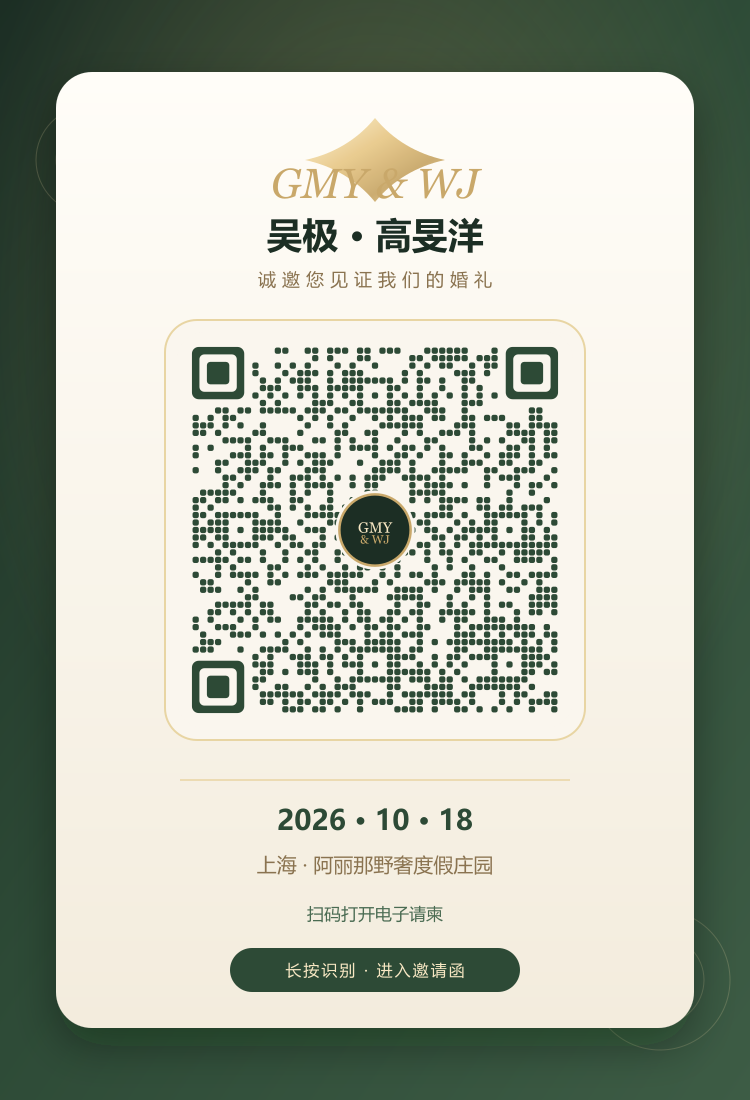
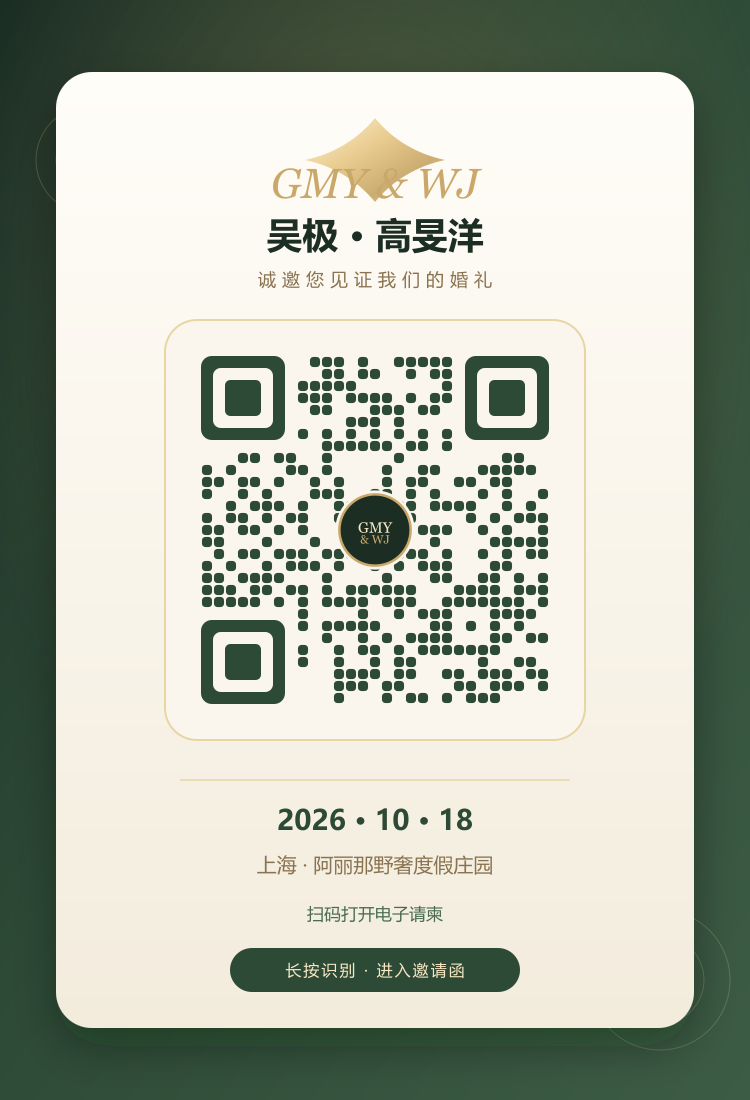
update

Changed region(s): [[0.2453, 0.3091, 0.7667, 0.6491]]

diff --git a/index.html b/index.html
@@ -11,19 +11,22 @@
     页面内用 JS 改写分享卡需公众号 appId + wx.config，本项目未接入。
   -->
   <meta property="og:type" content="website">
-  <meta property="og:url" content="https://wedding-invite-d9gdvtmrr73ff6b75-1461874135.ap-shanghai.app.tcloudbase.com">
+  <meta property="og:site_name" content="GMY &amp; WJ">
+  <meta property="og:url" content="https://wjgmywedding.cn/">
   <meta property="og:title" content="GMY &amp; WJ · 我们结婚啦">
   <meta property="og:description" content="吴极 &amp; 高旻洋 婚礼邀请 · 2026.10.18 · 上海阿丽那野奢度假庄园">
-  <meta property="og:image" content="https://wedding-invite-d9gdvtmrr73ff6b75-1461874135.ap-shanghai.app.tcloudbase.com/share/og-cover.png">
-  <meta property="og:image:width" content="800">
-  <meta property="og:image:height" content="800">
+  <meta property="og:image" content="https://wjgmywedding.cn/share/og-cover.jpg">
+  <meta property="og:image:type" content="image/jpeg">
+  <meta property="og:image:width" content="500">
+  <meta property="og:image:height" content="500">
   <meta name="twitter:card" content="summary_large_image">
   <meta name="twitter:title" content="GMY &amp; WJ · 我们结婚啦">
   <meta name="twitter:description" content="吴极 &amp; 高旻洋 婚礼邀请 · 2026.10.18 · 上海阿丽那野奢度假庄园">
-  <meta name="twitter:image" content="https://wedding-invite-d9gdvtmrr73ff6b75-1461874135.ap-shanghai.app.tcloudbase.com/share/og-cover.png">
+  <meta name="twitter:image" content="https://wjgmywedding.cn/share/og-cover.jpg">
   <meta itemprop="name" content="GMY &amp; WJ · 我们结婚啦">
   <meta itemprop="description" content="吴极 &amp; 高旻洋 婚礼邀请 · 2026.10.18 · 上海阿丽那野奢度假庄园">
-  <meta itemprop="image" content="https://wedding-invite-d9gdvtmrr73ff6b75-1461874135.ap-shanghai.app.tcloudbase.com/share/og-cover.png">
+  <meta itemprop="image" content="https://wjgmywedding.cn/share/og-cover.jpg">
+  <link rel="image_src" href="https://wjgmywedding.cn/share/og-cover.jpg">
   <link rel="preconnect" href="https://fonts.googleapis.com">
   <link rel="preconnect" href="https://fonts.gstatic.com" crossorigin>
   <link rel="preconnect" href="https://cdn.jsdelivr.net" crossorigin>
@@ -32,6 +35,14 @@
   <link href="https://cdn.jsdelivr.net/npm/lxgw-wenkai-webfont@1.7.0/lxgwwenkai-regular.css" rel="stylesheet">
 </head>
 <body>
+  <!-- 微信爬虫会取页面里的首图；勿用 display:none，否则抓不到 -->
+  <img
+    src="https://wjgmywedding.cn/share/og-cover.jpg"
+    alt="GMY &amp; WJ · 我们结婚啦"
+    width="500"
+    height="500"
+    style="position:absolute;left:-9999px;width:500px;height:500px"
+  >
   <div id="app"></div>
   <script type="module" src="/src/main.ts"></script>
 </body>

diff --git a/src/config/wedding.ts b/src/config/wedding.ts
@@ -76,7 +76,6 @@ export const weddingConfig: WeddingConfig = {
     groom: '/imgs/portrait/groom.jpg',
     bride: '/imgs/portrait/bride.jpg',
     formal: '/imgs/portrait/couple-formal.jpg',
-    art: '/imgs/portrait/couple-art.jpg',
     finale: '/imgs/portrait/couple-finale.jpg',
   },
 
@@ -85,12 +84,6 @@ export const weddingConfig: WeddingConfig = {
       en: 'Till here, and for beyond',
       cn: '相逢此时，漫漫与共',
       sub: '在这场奇妙漫长的人生盛典，我获颁与你并肩的一生。',
-    },
-    art: {
-      en: 'Quiet Moments',
-      cn: '静好时光',
-      sub: '依偎之间，是我们最自在的模样',
-      caption: '白色影棚 · 依偎静好',
     },
   },
 
@@ -184,11 +177,11 @@ export const weddingConfig: WeddingConfig = {
    * 页面已打开后由 JS 定制分享卡需公众号 JS-SDK，本项目未接入。
    */
   share: {
-    url: 'https://wedding-invite-d9gdvtmrr73ff6b75-1461874135.ap-shanghai.app.tcloudbase.com',
+    url: 'https://wjgmywedding.cn',
     title: 'GMY & WJ · 我们结婚啦',
     text: '吴极 & 高旻洋 婚礼邀请 · 2026.10.18 · 上海阿丽那野奢度假庄园',
-    /** 运行 pnpm share:qr 可重新生成 public/share/og-cover.png */
-    image: '/share/og-cover.png',
+    /** 运行 pnpm share:qr 可重新生成 public/share/og-cover.jpg */
+    image: '/share/og-cover.jpg',
     qrImage: '/share/invite-card.png',
   },
 };

diff --git a/src/utils/shareMeta.ts b/src/utils/shareMeta.ts
@@ -41,12 +41,14 @@ export function applyShareMeta(): void {
 
   upsertMeta('name', 'description', share.text)
   upsertMeta('property', 'og:type', 'website')
-  upsertMeta('property', 'og:url', url)
+  upsertMeta('property', 'og:site_name', 'GMY & WJ')
+  upsertMeta('property', 'og:url', url.endsWith('/') ? url : `${url}/`)
   upsertMeta('property', 'og:title', share.title)
   upsertMeta('property', 'og:description', share.text)
   upsertMeta('property', 'og:image', image)
-  upsertMeta('property', 'og:image:width', '800')
-  upsertMeta('property', 'og:image:height', '800')
+  upsertMeta('property', 'og:image:type', 'image/jpeg')
+  upsertMeta('property', 'og:image:width', '500')
+  upsertMeta('property', 'og:image:height', '500')
   upsertMeta('name', 'twitter:card', 'summary_large_image')
   upsertMeta('name', 'twitter:title', share.title)
   upsertMeta('name', 'twitter:description', share.text)
@@ -54,4 +56,12 @@ export function applyShareMeta(): void {
   upsertMeta('itemprop', 'name', share.title)
   upsertMeta('itemprop', 'description', share.text)
   upsertMeta('itemprop', 'image', image)
+
+  let imageSrc = document.head.querySelector('link[rel="image_src"]')
+  if (!imageSrc) {
+    imageSrc = document.createElement('link')
+    imageSrc.setAttribute('rel', 'image_src')
+    document.head.appendChild(imageSrc)
+  }
+  imageSrc.setAttribute('href', image)
 }

diff --git a/cloudbase/functions/wedding-api/index.js b/cloudbase/functions/wedding-api/index.js
@@ -44,6 +44,13 @@ function notFound() {
   }
 }
 
+/** CloudBase / Mongo 文档不能通过 set/update 改写 _id */
+function withoutDocId(doc) {
+  if (!doc || typeof doc !== 'object') return {}
+  const { _id, ...rest } = doc
+  return rest
+}
+
 function getPath(event) {
   const raw =
     event.path ||
@@ -241,7 +248,7 @@ async function likeWall(db, id) {
   const prev = Array.isArray(data) ? data[0] : data
   if (!prev) return json({ ok: false, error: '记录不存在' }, 404)
   const likes = Math.max(0, Number(prev.likes) || 0) + 1
-  await db.collection('wall').doc(id).set({ ...prev, id, likes })
+  await db.collection('wall').doc(id).update({ likes })
   return json({ ok: true, id, likes })
 }
 
@@ -255,7 +262,7 @@ async function updateWall(app, db, id, body) {
   if (!nextName) return json({ ok: false, error: '缺少昵称' }, 400)
 
   const meta = {
-    ...prev,
+    ...withoutDocId(prev),
     id,
     name: nextName,
     caption:

diff --git a/src/components/CoupleSection.vue b/src/components/CoupleSection.vue
@@ -53,6 +53,9 @@ function loveLineClass(line: string): string {
           <br v-if="i < loveStory.length - 1" />
         </template>
       </p>
+      <p class="love-source reveal d2">
+        — — “And The Winner Is” · Gérard Darmon
+      </p>
     </div>
   </section>
 </template>
@@ -184,6 +187,16 @@ function loveLineClass(line: string): string {
 .love-zh {
   font-family: var(--font-serif);
   letter-spacing: 0.08em;
+}
+.love-source {
+  margin: 18px auto 0;
+  max-width: 640px;
+  text-align: center;
+  font-family: var(--font-display-en);
+  font-style: italic;
+  font-size: 13px;
+  letter-spacing: 0.06em;
+  color: rgba(92, 83, 72, 0.58);
 }
 
 @media (max-width: 640px) {

diff --git a/src/components/FinaleSection.vue b/src/components/FinaleSection.vue
@@ -97,6 +97,7 @@ defineProps<{
   position: relative;
   z-index: 2;
   padding: 0 24px 72px;
+  transform: translateY(-7vh);
 }
 .fv {
   font-family: var(--font-script);
@@ -106,6 +107,19 @@ defineProps<{
   display: inline-block;
   padding: 0.15em 0.35em;
   animation: fvGlow 4s ease-in-out infinite;
+  background: linear-gradient(
+    135deg,
+    #e8d9c0 0%,
+    #c9b18f 28%,
+    #9a8162 52%,
+    #d2c0a2 74%,
+    #856b4d 100%
+  );
+  -webkit-background-clip: text;
+  background-clip: text;
+  -webkit-text-fill-color: transparent;
+  color: transparent;
+  filter: drop-shadow(0 3px 14px rgba(133, 107, 77, 0.32));
 }
 .fv .amp {
   font-size: 0.55em;

diff --git a/src/types/index.ts b/src/types/index.ts
@@ -48,8 +48,6 @@ export interface PortraitAssets {
   bride: string;
   /** 端正合照（白底全身） */
   formal: string;
-  /** 艺术合照（白底情绪） */
-  art: string;
   /** 尾页大图 */
   finale: string;
 }
@@ -141,10 +139,9 @@ export interface WeddingConfig {
   loveStory: string[];
   /** 婚纱照素材路径 */
   portraits: PortraitAssets;
-  /** 端正合照 / 艺术合照文案 */
+  /** 合照文案 */
   portraitStories: {
     formal: PortraitStory;
-    art: PortraitStory;
   };
   gallery: GalleryItem[];
   schedule: ScheduleItem[];

diff --git a/src/views/InviteView.vue b/src/views/InviteView.vue
@@ -104,12 +104,6 @@ onUnmounted(() => glowCleanup?.())
       <RsvpSection class="no-export" :endpoint="config.api.rsvpEndpoint" />
       <ScheduleSection :items="config.schedule" />
       <GallerySection :items="config.gallery" />
-      <PortraitStorySection
-        :src="config.portraits.art"
-        v-bind="config.portraitStories.art"
-        variant="art"
-        tone="light"
-      />
       <TipsSection :items="config.tips" :venue="config.venue" />
       <FinaleSection
         :logo-parts="config.couple.logoParts"

diff --git a/public/share/index.html b/public/share/index.html
@@ -31,7 +31,7 @@
       <a href="./invite-card.png" download="wedding-invite-qr.png">下载 PNG</a>
       <a href="./invite-card.svg" download="wedding-invite-qr.svg" style="margin-left:10px">下载 SVG</a>
     </div>
-    <p>扫码直达：https://wedding-invite-d9gdvtmrr73ff6b75-1461874135.ap-shanghai.app.tcloudbase.com</p>
+    <p>扫码直达：https://wjgmywedding.cn</p>
   </div>
 </body>
 </html>
